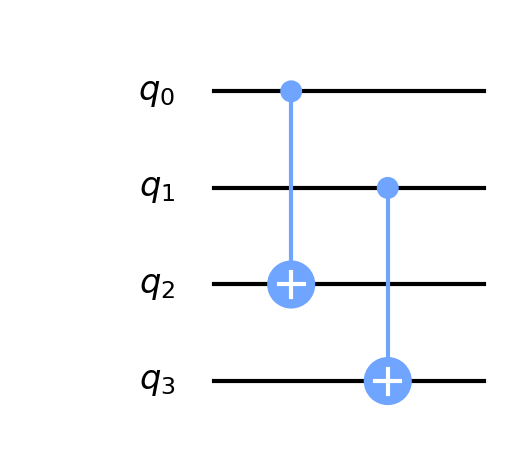
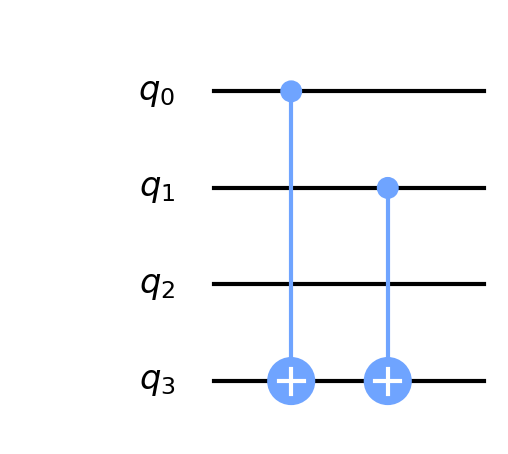
Update oracle

Changed region(s): [[0.502, 0.5551, 0.6201, 0.8943]]

diff --git a/circuits/oracle2.py b/circuits/oracle2.py
@@ -3,10 +3,10 @@ from qiskit import QuantumRegister, QuantumCircuit
 # Truth table:
 # q[1] | q[0] ||| q[3] | q[2]
 #   0  |   0  |||   0  |   0
-#   0  |   1  |||   0  |   1
+#   0  |   1  |||   1  |   0
 #   1  |   0  |||   1  |   0
-#   1  |   1  |||   1  |   1
-# --> searched bit string: s = 00
+#   1  |   1  |||   0  |   0
+# --> searched bit string: s = 11
 
 qc = QuantumCircuit()
 
@@ -14,7 +14,7 @@ q = QuantumRegister(4, 'q')
 
 qc.add_register(q)
 
-qc.cx(q[0], q[2])
+qc.cx(q[0], q[3])
 qc.cx(q[1], q[3])
 
 def get_circuit(**kwargs):
